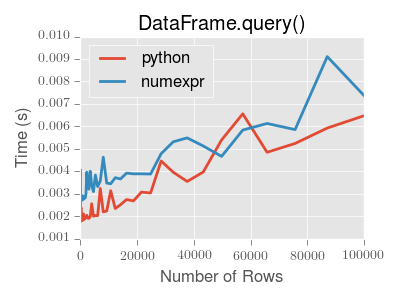
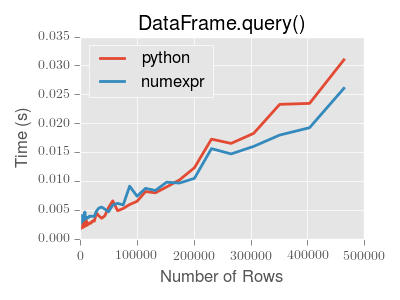
DOC: show a more informative query performance plot
Corrects the plot to show a larger range of numbers of rows to see where the
Python and NumExpr lines intersect.

diff --git a/bench/bench_with_subset.py b/bench/bench_with_subset.py
@@ -112,5 +112,5 @@ if __name__ == '__main__':
 
     plot_perf(ev[ev.size <= 50000], engines, 'DataFrame.eval()',
               filename=join('eval-perf-small.png'))
-    plot_perf(qu[qu.size <= 100000], engines, 'DataFrame.query()',
+    plot_perf(qu[qu.size <= 500000], engines, 'DataFrame.query()',
               filename=join('query-perf-small.png'))

diff --git a/doc/source/indexing.rst b/doc/source/indexing.rst
@@ -969,7 +969,7 @@ large frames
 .. note::
 
    You will only see the performance benefits of using the ``numexpr`` engine
-   with ``DataFrame.query()`` if your frame has more than approximately 50,000
+   with ``DataFrame.query()`` if your frame has more than approximately 200,000
    rows
 
       .. image:: _static/query-perf-small.png
